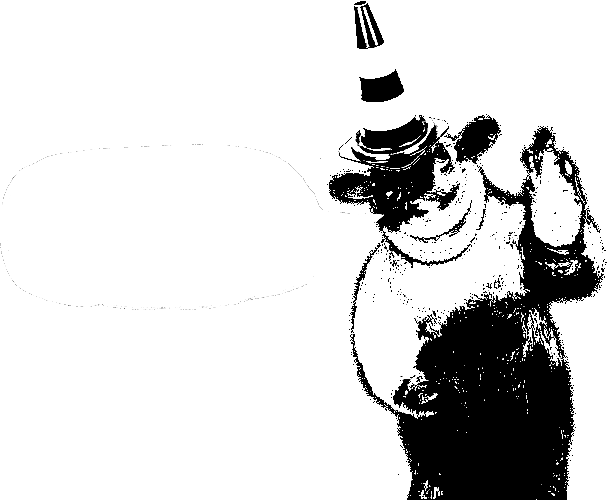
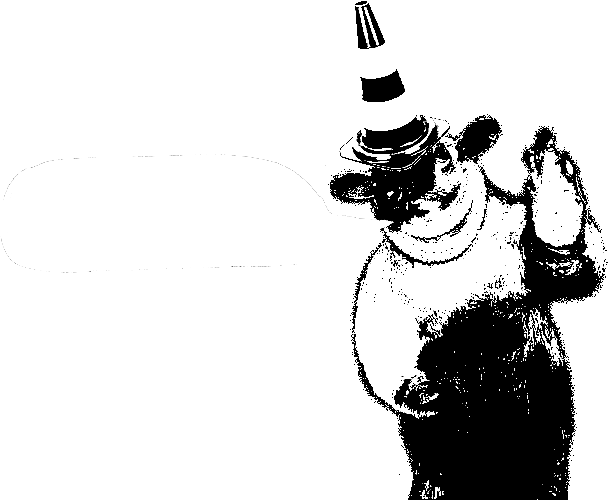
V6

diff --git a/pageNotFound.css b/pageNotFound.css
@@ -1,3 +1,72 @@
-.body {
+@keyframes rotate {
+    from {transform: rotate(0deg);}
+    to {transform: rotate(360deg);}
+}
+
+body {
     background-color: black;
+}
+.pnf{
+font-family: 'Courier New', Courier, monospace;
+position: absolute;
+bottom: 0px;
+right: 0px;
+}
+
+.pnf img{
+    width: 800px;
+    }
+.pnf p{
+    position: absolute;
+    top: 235px;
+    left: 28px;
+    width: 400px;
+}
+.home {
+    position: absolute;
+    top: 10px;
+    left: 30px;
+    width: 300px;
+}
+.homeHover {
+    position: absolute;
+    top: 10px;
+    left: 30px;
+    width: 300px;
+    opacity: 0;
+}
+    .homeButton:hover .homeHover {
+        position: absolute;
+        top: 10px;
+        left: 30px;
+        width: 300px;
+        opacity: 1;
+    }
+.text {
+    position: absolute;
+    top: 180px;
+    left: 200px;
+}
+.text img {
+    width: 330px;
+}
+.cone1 img{
+    position: absolute;
+    left: 600px;
+    width: 50px;
+    animation: rotate 0.002s infinite linear;
+}
+.cone2 img{
+    position: absolute;
+    top: 500px;
+    left: 800px;
+    width: 120px;
+    animation: rotate 100s infinite linear;
+}
+.cone3 img{
+    position: absolute;
+    top: 300px;
+    left:40px;
+    width: 90px;
+    animation: rotate 2s infinite reverse linear;
 }

diff --git a/pageNotFound.html b/pageNotFound.html
@@ -18,10 +18,24 @@
 </head>
 </head>
 <body>
-    <div class="404">
+    <div class="text">
+        <img src="assets/pnf.png" alt="">
+    </div>
+    <div class="pnf">
         <img src="assets/404.png" alt="">
         <p>Uh, wait a second... It seems that this page is under construction. 
             <br>Come here later to find something tasty!</p>
+    </div>
+
+    <!-- cones -->
+    <div class="cone1">
+        <img src="assets/cone.png" alt="">
+    </div>
+    <div class="cone2">
+        <img src="assets/cone.png" alt="">
+    </div>
+    <div class="cone3">
+        <img src="assets/cone.png" alt="">
     </div>
 </body>
 </html>
